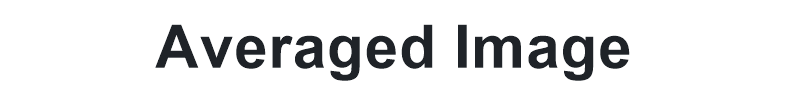
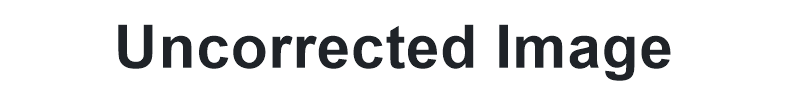
Rename Averaged to Uncorrected

Changed region(s): [[0.3655, 0.2353, 0.8528, 0.7941], [0.1523, 0.2353, 0.335, 0.6765]]

diff --git a/README.md b/README.md
@@ -14,7 +14,7 @@ Here are some examples of HEAL tested on __*real clinical intraprocedural CBCT s
 
 ### Reconstruction results in axial view
 
-The two-frame GIFs switch between the averaged image and the HEAL result to show the reduction of motion artifacts. The reference images were acquired in a separate scan with ventilation suspended at deep inspiration.
+The two-frame GIFs switch between the uncorrected image and the HEAL result to show the reduction of motion artifacts. The reference images were acquired in a separate scan with ventilation suspended at deep inspiration.
 
 <p align=center>
 <img width="2.9%" src="demo/labels/fig1-corner.png">
@@ -37,29 +37,29 @@ The two-frame GIFs switch between the averaged image and the HEAL result to show
 
 ### Dynamic results in coronal view
 
-The two-frame GIFs compare the averaged image with the HEAL result, and the dynamic images show the HEAL reconstruction over a respiratory cycle. MIP denotes maximum intensity projection.
+The two-frame GIFs compare the uncorrected image with the HEAL result, and the dynamic images show the HEAL reconstruction over a respiratory cycle. MIP denotes maximum intensity projection.
 
 <p align=center>
-<img width="2.8%" src="demo/labels/fig2-corner.png">
-<picture><source media="(prefers-color-scheme: dark)" srcset="demo/labels/fig2-h1-dark.png"><img width="18.7%" src="demo/labels/fig2-h1.png"></picture>
-<picture><source media="(prefers-color-scheme: dark)" srcset="demo/labels/fig2-h2-dark.png"><img width="18.7%" src="demo/labels/fig2-h2.png"></picture>
-<picture><source media="(prefers-color-scheme: dark)" srcset="demo/labels/fig2-h3-dark.png"><img width="18.7%" src="demo/labels/fig2-h3.png"></picture>
-<picture><source media="(prefers-color-scheme: dark)" srcset="demo/labels/fig2-h4-dark.png"><img width="18.7%" src="demo/labels/fig2-h4.png"></picture><br>
-<picture><source media="(prefers-color-scheme: dark)" srcset="demo/labels/fig2-case1-dark.png"><img width="2.8%" src="demo/labels/fig2-case1.png"></picture>
-<img width="18.7%" src="demo/fig2-1-1.gif">
-<img width="18.7%" src="demo/fig2-1-2.gif">
-<img width="18.7%" src="demo/fig2-1-3.gif">
-<img width="18.7%" src="demo/fig2-1-4.gif"><br>
-<picture><source media="(prefers-color-scheme: dark)" srcset="demo/labels/fig2-case2-dark.png"><img width="2.8%" src="demo/labels/fig2-case2.png"></picture>
-<img width="18.7%" src="demo/fig2-2-1.gif">
-<img width="18.7%" src="demo/fig2-2-2.gif">
-<img width="18.7%" src="demo/fig2-2-3.gif">
-<img width="18.7%" src="demo/fig2-2-4.gif"><br>
-<picture><source media="(prefers-color-scheme: dark)" srcset="demo/labels/fig2-case3-dark.png"><img width="2.8%" src="demo/labels/fig2-case3.png"></picture>
-<img width="18.7%" src="demo/fig2-3-1.gif">
-<img width="18.7%" src="demo/fig2-3-2.gif">
-<img width="18.7%" src="demo/fig2-3-3.gif">
-<img width="18.7%" src="demo/fig2-3-4.gif">
+<img width="2.6%" src="demo/labels/fig2-corner.png">
+<picture><source media="(prefers-color-scheme: dark)" srcset="demo/labels/fig2-h1-dark.png"><img width="18.8%" src="demo/labels/fig2-h1.png"></picture>
+<picture><source media="(prefers-color-scheme: dark)" srcset="demo/labels/fig2-h2-dark.png"><img width="18.8%" src="demo/labels/fig2-h2.png"></picture>
+<picture><source media="(prefers-color-scheme: dark)" srcset="demo/labels/fig2-h3-dark.png"><img width="18.8%" src="demo/labels/fig2-h3.png"></picture>
+<picture><source media="(prefers-color-scheme: dark)" srcset="demo/labels/fig2-h4-dark.png"><img width="18.8%" src="demo/labels/fig2-h4.png"></picture><br>
+<picture><source media="(prefers-color-scheme: dark)" srcset="demo/labels/fig2-case1-dark.png"><img width="2.6%" src="demo/labels/fig2-case1.png"></picture>
+<img width="18.8%" src="demo/fig2-1-1.gif">
+<img width="18.8%" src="demo/fig2-1-2.gif">
+<img width="18.8%" src="demo/fig2-1-3.gif">
+<img width="18.8%" src="demo/fig2-1-4.gif"><br>
+<picture><source media="(prefers-color-scheme: dark)" srcset="demo/labels/fig2-case2-dark.png"><img width="2.6%" src="demo/labels/fig2-case2.png"></picture>
+<img width="18.8%" src="demo/fig2-2-1.gif">
+<img width="18.8%" src="demo/fig2-2-2.gif">
+<img width="18.8%" src="demo/fig2-2-3.gif">
+<img width="18.8%" src="demo/fig2-2-4.gif"><br>
+<picture><source media="(prefers-color-scheme: dark)" srcset="demo/labels/fig2-case3-dark.png"><img width="2.6%" src="demo/labels/fig2-case3.png"></picture>
+<img width="18.8%" src="demo/fig2-3-1.gif">
+<img width="18.8%" src="demo/fig2-3-2.gif">
+<img width="18.8%" src="demo/fig2-3-3.gif">
+<img width="18.8%" src="demo/fig2-3-4.gif">
 </p>
 
 ### Dynamic augmented fluoroscopy
